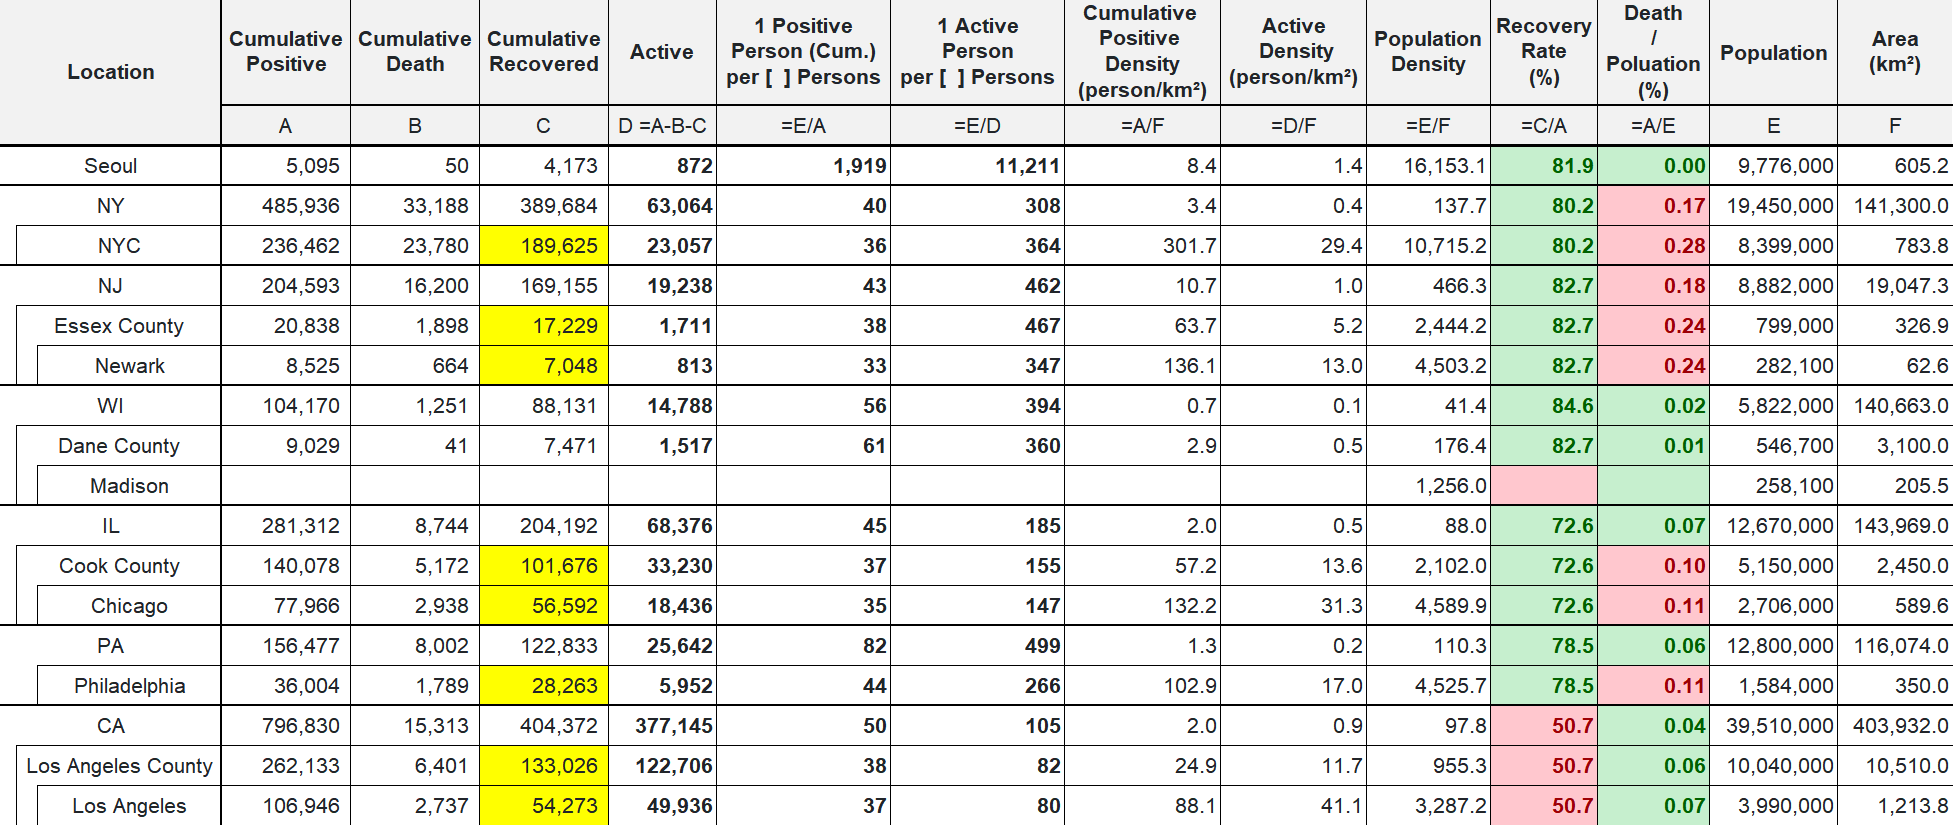
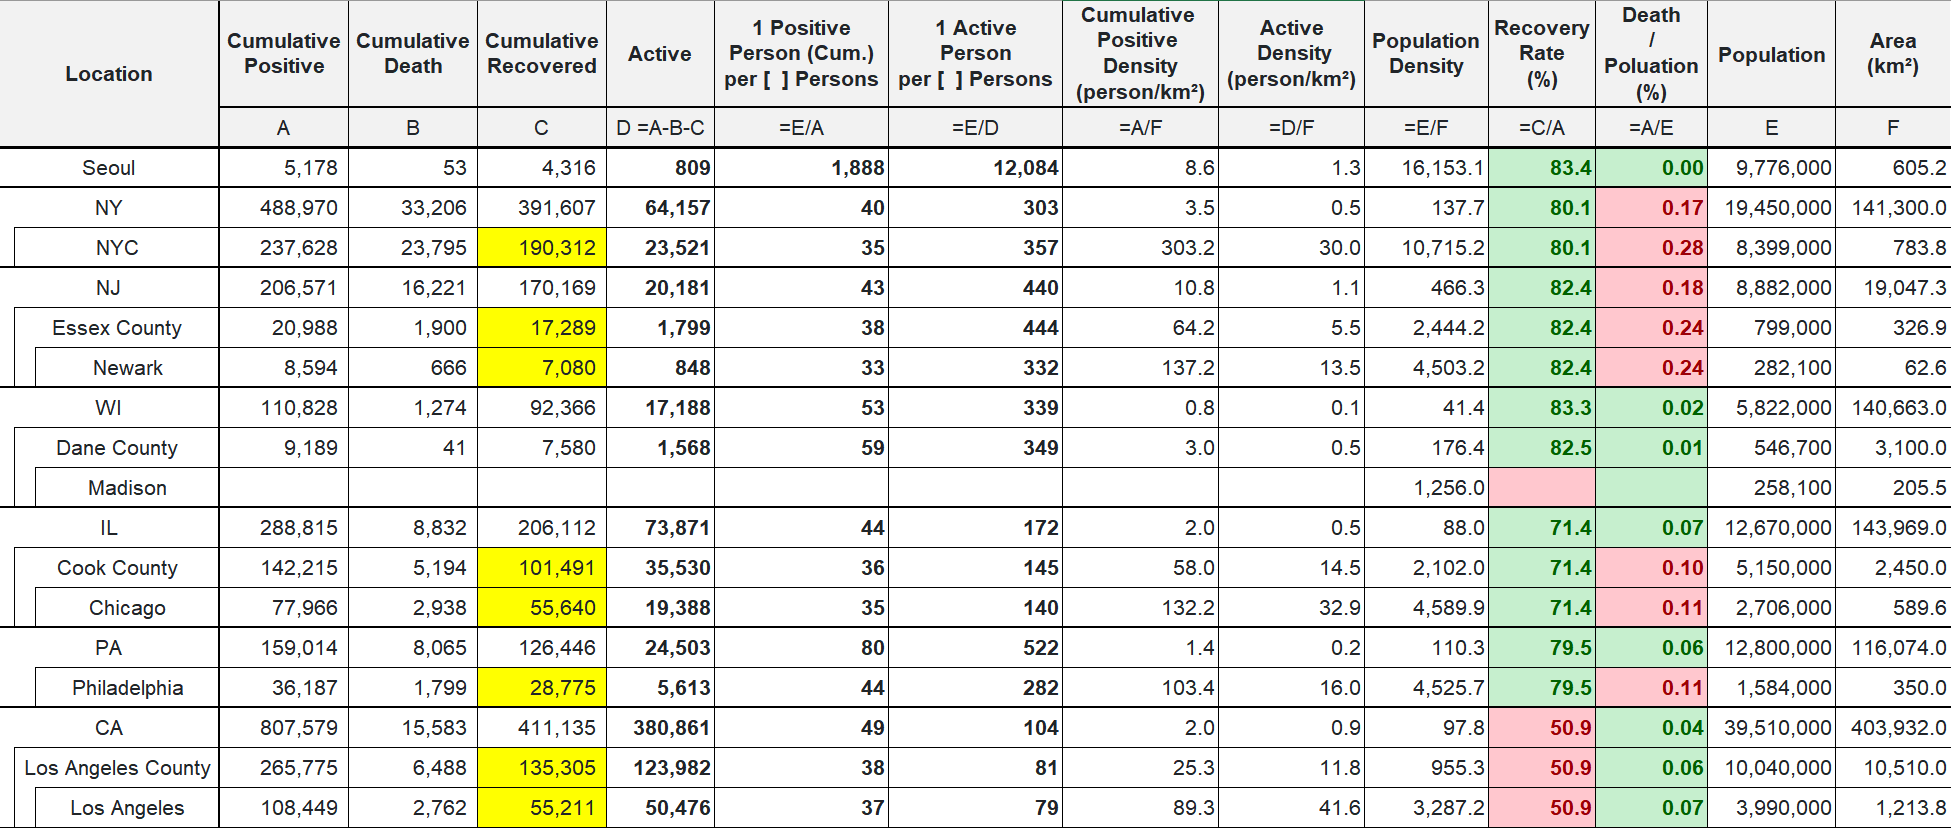
update 9/26 status

diff --git a/index.html b/index.html
@@ -19,7 +19,7 @@
 
 <body class="container-fluid">
 	<h1> CoronaV for Friends</h1>
-	<h2> Data updated at Sep 23 2020 EST 22:15</h2>
+	<h2> Data updated at Sep 26 2020 EST 23:20</h2>
 	<hr>
 	<main>
 		<div class="row">
